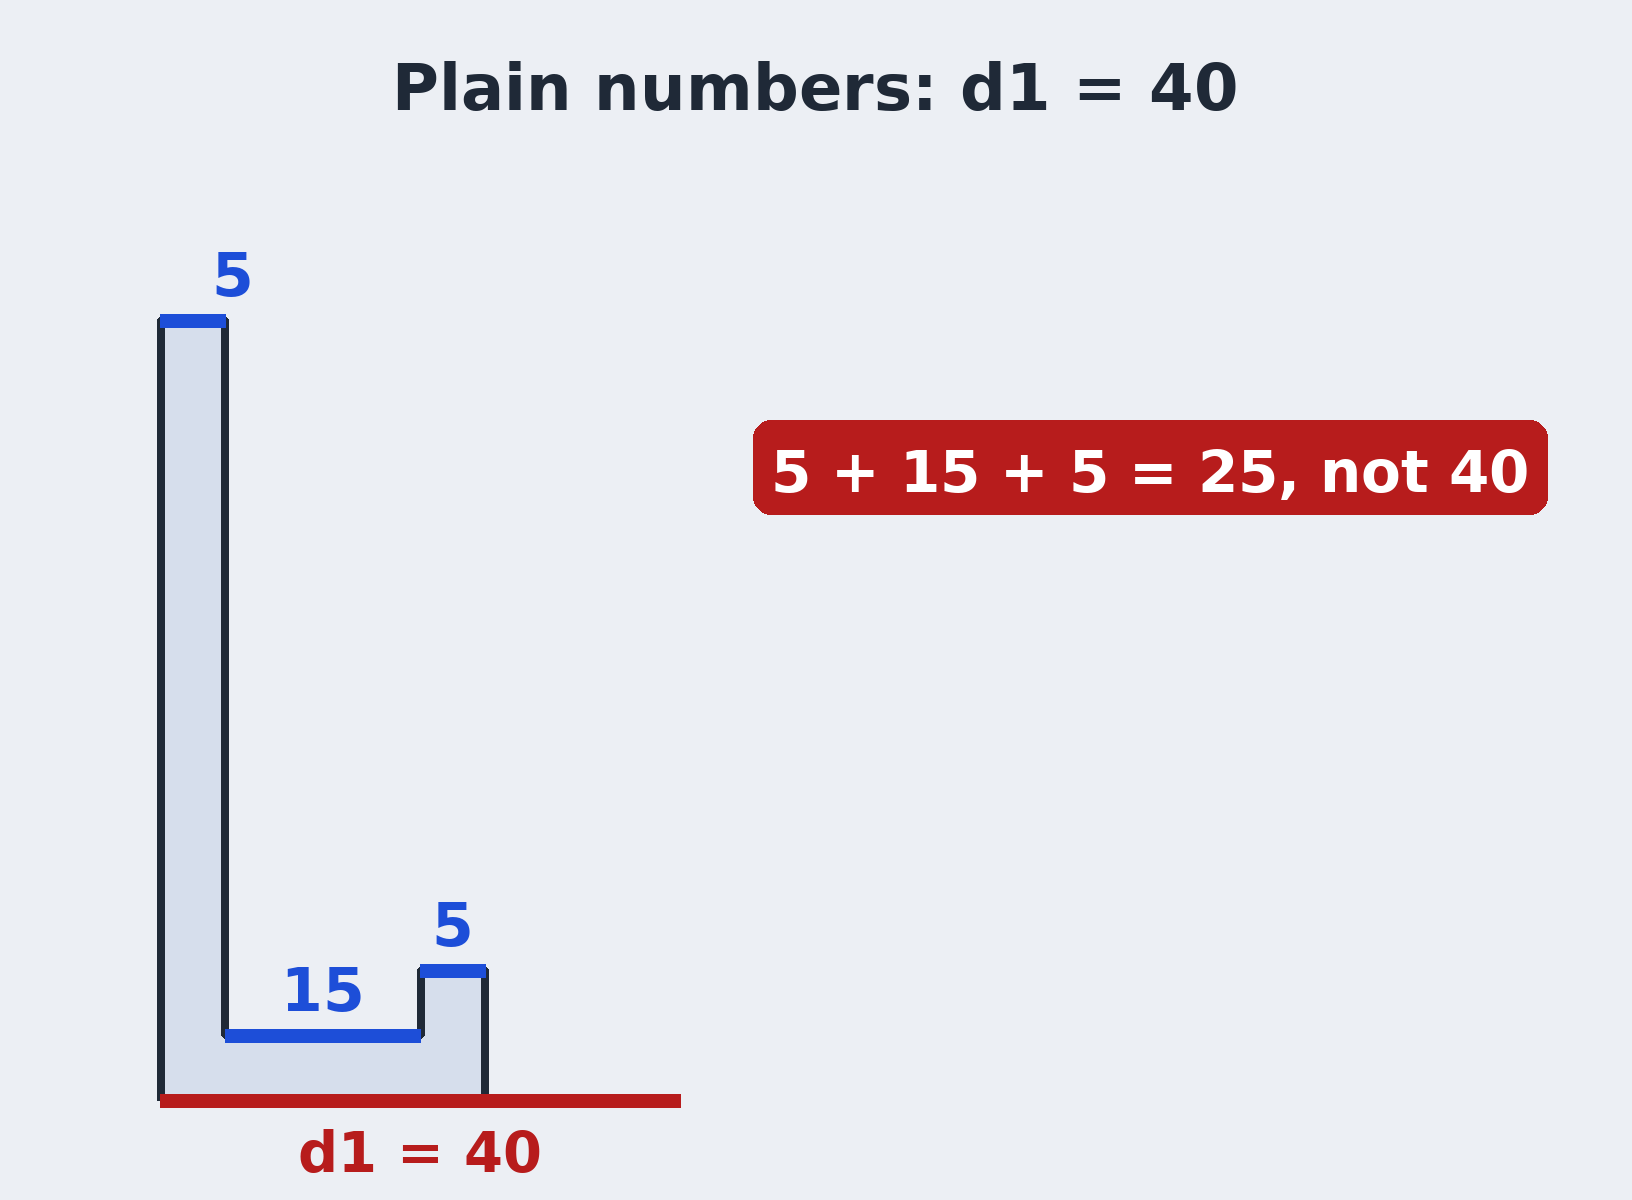
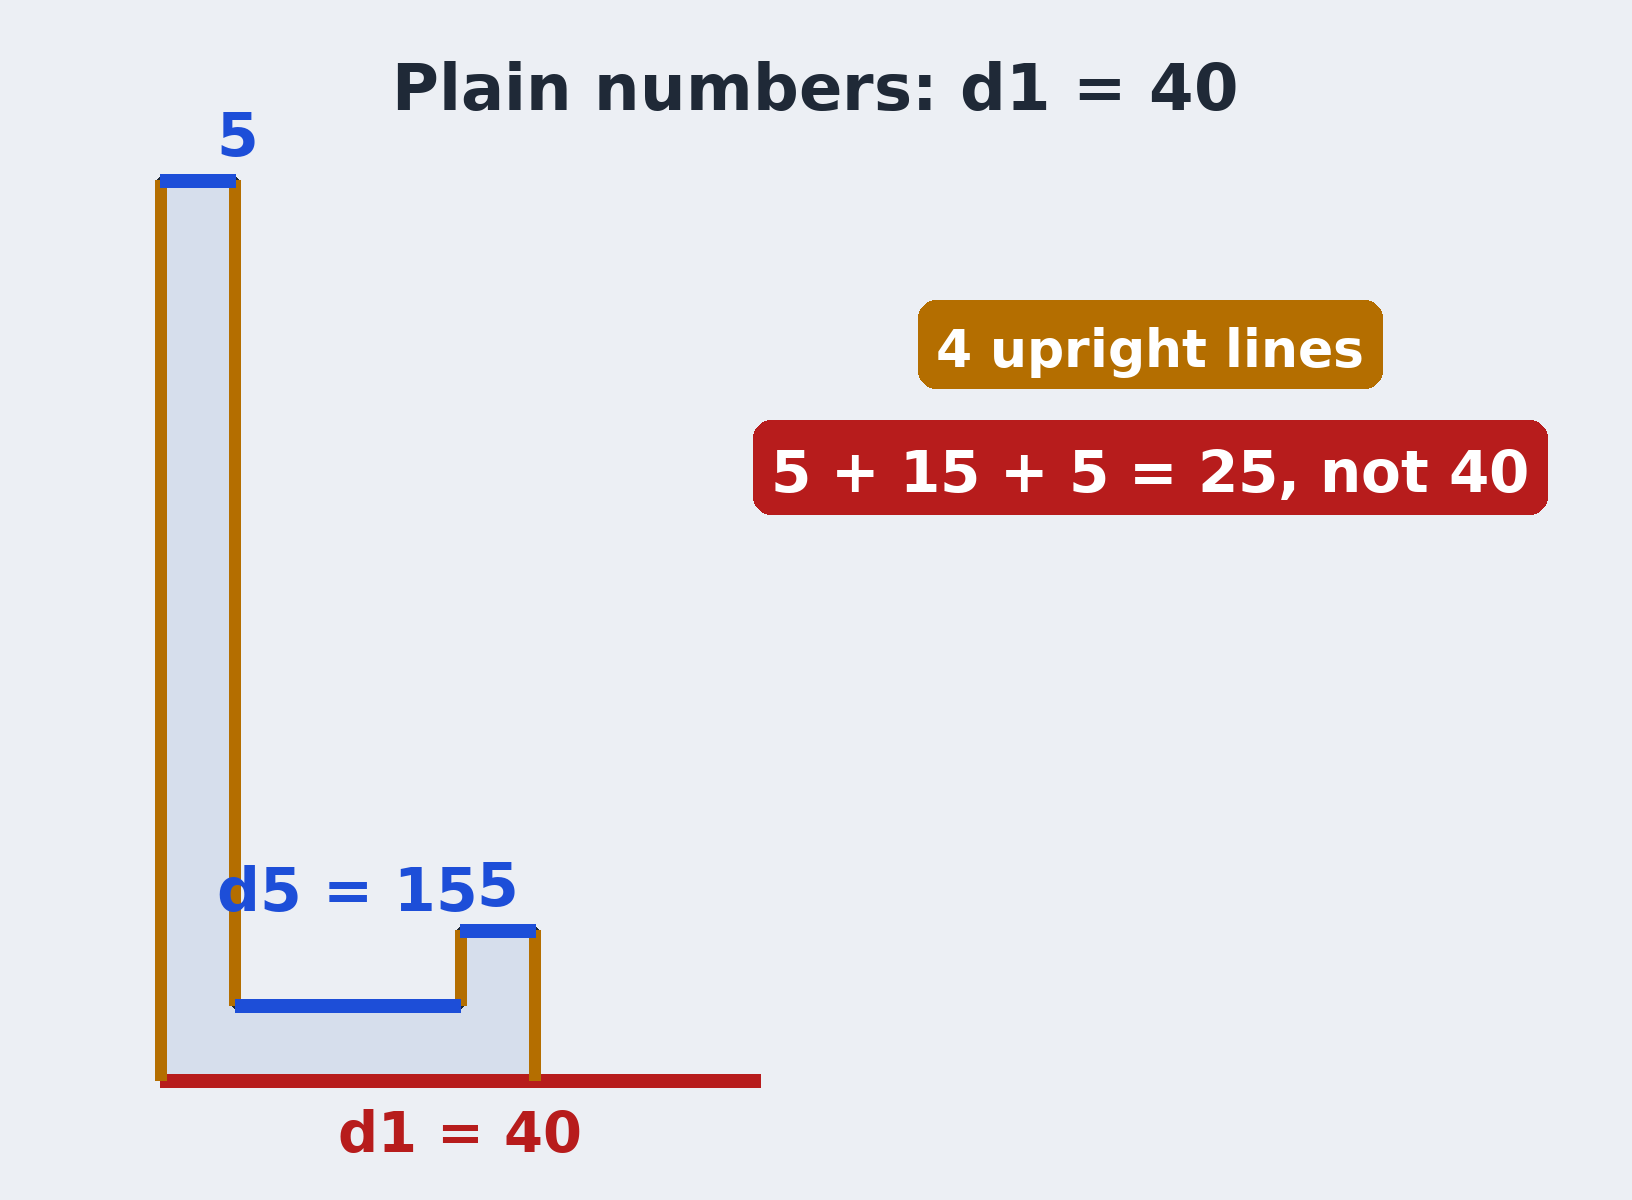
Lesson 3 cards after watch-through cut 1: the upright lines and d5 on the why card, the plate edge marked, run names, recap steps

Changed region(s): [[0.0938, 0.0925, 0.4688, 0.9867], [0.5625, 0.2467, 0.875, 0.3392]]

diff --git a/video/draw3.py b/video/draw3.py
@@ -113,16 +113,21 @@ def card_expected():
 def card_plainwhy():
     im, d = canvas()
     text(d, (W / 2, 50), 'Plain numbers: d1 = 40', 64, anchor='ma')
-    s = 13
-    ox, oy = 160, 1100
+    s = 15
+    ox, oy = 160, 1080
     pts = j_pts()
     p = draw_j(d, pts, ox, oy, s)
-    # the wanted bottom: 40
     d.line((p[0], (ox + 40 * s, oy)), fill=RED, width=14)
     text(d, (ox + 20 * s, oy + 20), 'd1 = 40', 56, RED, anchor='ma')
-    for a, b, lab in ((p[3], p[2], '5'), (p[5], p[4], '15'), ((ox, p[6][1]), p[6], '5')):
+    save(im, 'card-plainwhy-0.png')
+    # the four upright lines the message names (k3, k7, k11, k15)
+    for a, b in ((p[1], p[2]), (p[3], p[4]), (p[5], p[6]), (p[7], p[0])):
+        d.line((a, b), fill=AMBER, width=12)
+    chip(d, (1150, 300), '4 upright lines', 52, anchor='m', bg=AMBER)
+    for a, b, lab in ((p[3], p[2], '5'), (p[5], p[4], 'd5 = 15'), ((ox, p[6][1]), p[6], '5')):
         d.line((a, b), fill=BLUE, width=14)
-        text(d, ((a[0] + b[0]) / 2 + (40 if lab == '5' and a[0] == ox else 0), a[1] - 80), lab, 60, BLUE, anchor='ma')
+        dy = 150 if lab.startswith('d5') else 80
+        text(d, ((a[0] + b[0]) / 2 + (40 if lab == '5' and a[0] == ox else 0), a[1] - dy), lab, 60, BLUE, anchor='ma')
     chip(d, (1150, 420), '5 + 15 + 5 = 25, not 40', 58, anchor='m', bg=RED)
     save(im, 'card-plainwhy-a.png')
     chip(d, (1150, 560), 'fix: d5 = d1 − 10', 58, anchor='m', bg=GREEN)
@@ -151,7 +156,7 @@ def card_compare():
                     fs -= 2
                 text(d, (x + cw / 2, y + 56 + j * 56), ln, fs, INK, anchor='ma')
         save(im, f'card-compare-{i + 1}.png')
-    text(d, (W / 2, 1110), f'replay, no AI: A1 {n(REP["A1"]["summary"]["volume_mm3"])} · B1 {n(REP["B1"]["summary"]["volume_mm3"])} mm³', 52, INK, anchor='ma')
+    text(d, (W / 2, 1110), f'replay, no AI: not asked run 1 {n(REP["A1"]["summary"]["volume_mm3"])} · asked run 1 {n(REP["B1"]["summary"]["volume_mm3"])} mm³', 42, INK, anchor='ma')
     save(im, 'card-compare.png')
 
 
@@ -163,25 +168,26 @@ def card_recap():
         y = 260 + i * 260
         d.rounded_rectangle((160, y, 1472, y + 170), radius=24, fill=PAPER, outline=c, width=8)
         text(d, (W / 2, y + 50), s, 64, c, anchor='ma')
-    save(im, 'card-recap.png')
+        save(im, f'card-recap-{i + 1}.png' if i < 2 else 'card-recap.png')
 
 
 def card_bwrong():
-    """B1: Claude's corner list against the right one (from its logged sketch.line points)."""
+    """Asked run 1: the plate's inner edge where it was placed against where it belongs (its logged sketch.line points)."""
     im, d = canvas()
-    text(d, (W / 2, 50), "Claude's run B1: one corner", 64, anchor='ma')
+    text(d, (W / 2, 50), 'Claude, asked, run 1: the plate edge', 60, anchor='ma')
     s = 12
-    draw_j(d, j_pts(25, 5), 200, 1040, s, fill=(214, 236, 220), outline=GREEN)
+    pg = draw_j(d, j_pts(25, 5), 200, 1040, s, fill=(214, 236, 220), outline=GREEN)
+    d.line((pg[5], pg[6]), fill=GREEN, width=18)
+    text(d, (pg[5][0] + 30, (pg[5][1] + pg[6][1]) / 2), 'edge at 5', 48, GREEN)
     text(d, (350, 150), 'needed', 56, GREEN, anchor='ma')
     text(d, (350, 230), 'x = thickness', 52, GREEN, path=M, anchor='ma')
     chip(d, (350, 1110), 'plate 5 · 8,500', 46, anchor='m', bg=GREEN)
     save(im, 'card-bwrong-1.png')
-    draw_j(d, j_pts(25, 15), 950, 1040, s, fill=(240, 214, 214), outline=RED)
-    text(d, (350, 150), 'needed', 56, GREEN, anchor='ma')
-    text(d, (350, 230), 'x = thickness', 52, GREEN, path=M, anchor='ma')
-    text(d, (1100, 160), 'Claude wrote', 56, RED, anchor='ma')
+    pr = draw_j(d, j_pts(25, 15), 950, 1040, s, fill=(240, 214, 214), outline=RED)
+    d.line((pr[5], pr[6]), fill=RED, width=18)
+    text(d, (pr[5][0] + 30, (pr[5][1] + pr[6][1]) / 2), 'edge at 15', 48, RED)
+    text(d, (1100, 160), 'Claude placed it at', 52, RED, anchor='ma')
     text(d, (1100, 230), 'x = hook_depth − 2·thickness', 44, RED, path=M, anchor='ma')
-    chip(d, (350, 1110), 'plate 5 · 8,500', 46, anchor='m', bg=GREEN)
     chip(d, (1100, 1110), 'plate 15 · 19,500', 46, anchor='m', bg=RED)
     save(im, 'card-bwrong.png')
 
